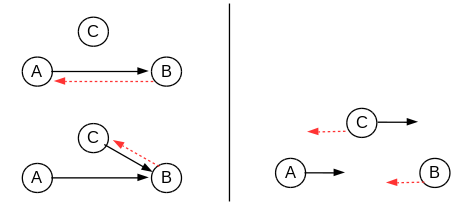
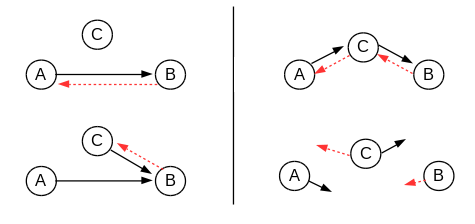
Document failures

diff --git a/report/report.md b/report/report.md
@@ -1,25 +1,37 @@
-#Streaming on Chord
+#Streaming on Chord DHT
 
-###INTRODUCTION
+##1. ABSTRACT
+
+coming
+
+##2. INTRODUCTION
 
 A significant number of distributed hash table (DHT) models have been designed with intent to be used in peer-to-peer (P2P) applications. These prototypes include CAN, Chord, Pastry, Kademlia and more. P2P is a general term for any networked environment where every node is responsible both as a client and a server. DHT provides a popular infrastructure for P2P as it locates data without a server. It also scales the network up, distributes content evenly and routes among the nodes fast. Among those prototypes, we chose the Chord DHT because it has a simple design and has been frequently studied and mentioned by researchers. 
 
-This project has addressed the motivated problem of maintaining the Chord ring overlay structure at node and communication failures. Regarding this concern, studies have discovered and improved possible incorrectness cases in traditional DHT designs including Chord. 
+This project has addressed the motivated problem of maintaining the Chord ring overlay structure along with node and communication faults. Regarding this concern, studies have discovered and improved possible incorrectness in Chord-like DHTs. 
 
-Our interest is in approaching this known problem at the application level.  After building a DHT P2P system, we have performed media streaming atop the system. This involves querying  serialized messages and data chunks. The results demonstrate two fold. First, it is a practical method to test the system. [ should elaborate – one sentence ] Second, it may open possibility to detect and oversee the overlay topology, as a number of researchers suggested.
+Our interest is in approaching this known problem at the application level.  After building a DHT P2P system, we have performed media streaming atop the system. This involves querying  serialized messages and data chunks. This practical approach has led us to detect and handle the incorrectness at a higher level than the DHT. **As a result, … (Pls give one sentence on 'our' streaming)**
 
 
-###DESIGN
+##3. DESIGN
 
 The following functionalities are based on settings and assumptions documented in the firstly presented Chord paper [Stoica], unless specified otherwise.
 
-**Scalability:** Each node participates the network via links to its adjacent nodes. This relation forms P2P overlays. When a node is added or removed, the adjacency state is coordinated locally. That is, a node only knows the keys to nodes that this node is responsible for. In this context, a removed node's keys should be passed to a neighbor node; a new node should own some keys. DHTs make these possible by reassigning local hash tables in the way distributing the responsibilities.
+###3.1 Scalability
 
-**Balanced Key Space:** Chord takes and extends the idea of consistent hashing that reduces number of keys to reassign when a distributed system is resized. The reduction is achieved when each participating node only “views” its “roughly equal share”. [Karger]  As traditional hashing, nodes are identified by keys randomized by a hash function.  The keys are then assigned to the node whose key “most immediately follows it” [Freedman]. While doing so, but in consistent hashing, the last node is glued to the first one. This gives illusion that the key space is now circular, moving in clockwise direction.  In this way a node on average holds O(K/n) keys, where K = number of keys, n = number of nodes. When this node leaves the system, the number of reassigned keys is only as large as the size of the local hash table. 
+Each node participates the network via links to its adjacent nodes. This relation forms P2P overlays. When a node is added or removed, the adjacency state is coordinated locally. That is, a node only knows the keys to nodes that this node is responsible for. In this context, a removed node's keys should be passed to a neighbor node; a new node should own some keys. DHTs make these possible by reassigning local hash tables in the way distributing the responsibilities.
 
-**Routing Performance:** Above is still true in Chord, with table-size log n.  The number of bits in a key is defined as the same value log(n). Using SHA1 hash function, a key is 160-bit long and a hash table becomes 160-keys long as well.  This means the DHT-based system now partitions the key space so that each node knows 160 possible nodes to reach. Each hash table can be considered as a routing table storing key-address pairs (i.e. fingers).  The Chord DHT has every i-th key of the first node that succeeds or equals (n + 2i).  The i-th entry then points the node in distance of (1 / 2n-i). When querying a target node, a node recursively hops to the node of the largest key that is smaller than that of the target. This ensures routing delay within O(log n). This greedy algorithm sets bound for required bandwidth which seems to work practically with large n. This is an enhancement from consistent hashing which possibly “requires computing all” the keys. [Karger] 
+###3.2 Balanced Key Space
 
-**Node subscription and exit/failure:** To add or remove a node, two tasks should get done: updating all the routing tables that involve the node; and, transferring key responsibility from/to its new successor.  These operations are known to cost time complexity O(log n)^2.  Assume node B is node A's successor. To add C,  the system updates the predecessor A's routing table according to C, and recursively do the same through the routing tables of all other nodes that have entries of B. C gains the responsibility for keys in the range of (a, c] which was previously part of B's key (a, b]. Now B is only responsible for keys in (c, b]. (Figure 1) Similarly, when C leaves or gets detected to be failed,  all keys stored in C's routing table become reassigned to it's successor B.  All  associated routing table removes C. The successor B now owns C's keys as well as its previous keys. (Figure 2)
+Chord takes and extends the idea of consistent hashing that reduces number of keys to reassign when a distributed system is resized. The reduction is achieved when each participating node only “views” its “roughly equal share”. [Karger]  As traditional hashing, nodes are identified by keys randomized by a hash function.  The keys are then assigned to the node whose key “most immediately follows it” [Freedman]. While doing so, but in consistent hashing, the last node is glued to the first one. This gives illusion that the key space is now circular, moving in clockwise direction.  In this way a node on average holds O(K/n) keys, where K = number of keys, n = number of nodes. When this node leaves the system, the number of reassigned keys is only as large as the size of the local hash table. 
+
+###3.3 Routing Performance
+
+Above is still true in Chord, with table-size log n.  The number of bits in a key is defined as the same value log(n). Using SHA1 hash function, a key is 160-bit long and a hash table becomes 160-keys long as well.  This means the DHT-based system now partitions the key space so that each node knows 160 possible nodes to reach. Each hash table can be considered as a routing table storing key-address pairs (i.e. fingers).  The Chord DHT has every i-th key of the first node that succeeds or equals (n + 2i).  The i-th entry then points the node in distance of (1 / 2n-i). When querying a target node, a node recursively hops to the node of the largest key that is smaller than that of the target. This ensures routing delay within O(log n). This greedy algorithm sets bound for required bandwidth which seems to work practically with large n. This is an enhancement from consistent hashing which possibly “requires computing all” the keys. [Karger] 
+
+###3.4 Node subscription and exit/failure
+
+To add or remove a node, two tasks should get done: updating all the routing tables that involve the node; and, transferring key responsibility from/to its new successor.  These operations are known to cost time complexity O(log n)^2.  Assume node B is node A's successor. To add C,  the system updates the predecessor A's routing table according to C, and recursively do the same through the routing tables of all other nodes that have entries of B. C gains the responsibility for keys in the range of (a, c] which was previously part of B's key (a, b]. Now B is only responsible for keys in (c, b]. (Figure 1) Similarly, when C leaves or gets detected to be failed,  all keys stored in C's routing table become reassigned to it's successor B.  All  associated routing table removes C. The successor B now owns C's keys as well as its previous keys. (Figure 2)
 
 <img border=0 src='figure1.png'>
 
@@ -27,22 +39,24 @@ The following functionalities are based on settings and assumptions documented i
 
 > Figure 2 (right).    Key transfer with removed node.
 
-It is important to keep track of nodes' state so that the Chord system keeps invariants true for data consistency. That is, “all members agree about which members store values for which keys.” [Zave] This topic is beyond the scope of this project. Rather, we narrow our focus down into how a node can reach its adjacent overlay peers correctly. A node's reachability is a necessary prerequisite to its data consistency. 
+It is important to keep track of nodes' state so that the Chord system keeps invariants true for data consistency. That is, “all members agree about which members store values for which keys”. [Zave] This topic is beyond the scope of this report. Rather, we narrow our focus down into how a node can reach its adjacent overlay peers correctly. A node's reachability is a necessary prerequisite to its data consistency. 
 
  
-###CHORD RING MAINTENANCE
-
+##4. CHORD RING MAINTENANCE
 
 Every participating node is a member of a ring. The node has links to a successor node (whose key is next highest) and a predecessor (whose key is closest past). The successor is also defined as the smallest key entry stored in each routing table. Chord ring topology is defined by the successor pointer. To maintain this topology, the system is required to have exactly one ring and all members in the ring in right order. [Zave]
 
-**Member changes:**  Before any addition or removal of nodes proceeds, the ring's member relation is redefined. When the previous example of adding a node is about to occur, C first asks the predecessor A for its successor key. The returning key is B that becomes C's  successor; C becomes B's predecessor (represented as dashed line in Figure 3).   Until A notices that B does not consider A as a  predecessor any more, B has two members that think itself as a successor. Figure 4 shows the case of C leaving. A has a missing successor; B has a missing predecessor.
+###4.1 Member changes
+
+Before any addition or removal of nodes proceeds, the ring's member relation is redefined. When the previous example of adding a node is about to occur, node C first asks the predecessor A for A's current successor key. The returning key is of node B, which  becomes C's  successor; and C becomes B's predecessor (represented as dashed line in Figure 3).   Until A notices that B now points to a different predecessor than itself, B has two members believing that they are the successor. 
 
 <img border=0 src='figure3.png'>
 
-> Figure 3 (left).   Adding node C.
+> Figure 3 (left).   Adding node C to the ring structure.
 
-> Figure 4 (right).   Removing node C.
+> Figure 4 (right).   Removing node C from the ring structure.
 
+As seen in Figure 5, the ring seems maintain with an appendage cause by C. However it does not circulate properly because A's idea of its successor B and B's idea of its predecessor C do not agree. To resolve this the Chord paper suggests a periodic heartbeat feature (i.e., stabilization) to detect an incorrect successor-relation. 
 
 <img border=0 src='figure5.png'>
 
@@ -51,37 +65,53 @@ Every participating node is a member of a ring. The node has links to a successo
 > Figure 6 (right). A global view of Figure 4.
 
 
-**Stabilization protocol:** The Chord paper suggests a periodic heartbeat feature to detect incorrect successor-relations as appeared in Figure 5 and 6. According to this, every member pings the node which have been thought to be the processor and ask for its predecessor's identitier. For example, node A asks node B for B's predecessor and B returns node C. Since the target node's predecessor is not the sender itself, A adopts B's predecessor C as new successor, knowing that C's ID is apparently greater than A's and smaller than B's.  After C sets A as the predecessor, it continues to update routing tables and key responsibilities as appropriate. As the paper does not provide any more details, in the project the member sends two arbitrary messages expecting one back, as described on the page 3 of the proposal.
+###4.2 Stabilization protocol
 
-An obvious weakness of this method, also mentioned in the Chord paper, is that it cannot handle concurrent joins. If more than two nodes C, D joined between two members A, B before the periodic heartbeat incorporates at least one node into the ring, B eventually sets its predecessor pointer to later added D. When A gets stabilized, it recognizes D as a successor and gives proper key responsibility to D. Although this does not violate Zave's conditions for a valid overlay structure (i.e., exactly one ring and ordered), C becomes non-reachable from other members. 
+Every member pings the node whose key is locally stored as its processor and ask for its predecessor. In case the returned predecessor key does not agree with itself, the node redirect its successor pointer to the returned predecessor. Then the new predecessor will set its predecessor pointer to this node and the ring is repaired. For example, node A in Figure 5 asks node B for what B's predecessor is and B returns node C.  Since B's predecessor is not A itself, A adopts B's predecessor C as new successor. For A, C is a rational choice for its successor because C clearly has larger key than A's – otherwise C could not have been A's former successor B's predecessor – and smaller than B's because B is C's successor.  Thus after C sets A as its predecessor successfully, it continues to update routing tables and key responsibilities as appropriate. Since the paper does not provide much more details, the member is set to send two arbitrary messages expecting one back, as described on the page 3 of the proposal.
+
+An obvious weakness of this method, also mentioned in the Chord paper, is that it cannot handle concurrent joins. If more than two nodes C, D join between two members A, B (Figure 7) before the periodic heartbeat incorporates at least one node into the ring, B eventually sets its predecessor pointer to the later added D. Once A has been stabilized, it recognizes D as its successor and transfers proper key responsibility to D. C becomes not reachable from other members. Although this does not violate P. Zave's conditions for a “valid” overlay structure (i.e., exactly one ring and ordered), it is incorrect in terms of key responsibility. After the stabilization B becomes responsible for keys (D, B]. Thus a key between (D, C) will belong to B. However C is a live node that deserves to own the key in the range. 
 
 <img border=0 src='figure7.png'>
 
-> Figure 7. Concurrent joins leaving C non-reachable.
+> Figure 7. Concurrent joins causing node C unreachable.
 
-**Successor-list:**  Note that above stabilization method cannot progress when there is 'hole in the network' as shown in Figure 6. Since the previous successor C has left the ring, A cannot get a  response. A solution from the Chord paper is that each member stores a replication of upcoming successors' keys as part of the routing table. In the example in Figure 8, current successor of node 32 is node 40. If node 40 and 52 have failed at the moment of stabilization, the successor list with replication factor 5 (the second table) can find the next live successor node 60. These nodes, whose keys are stored for the purpose of finding an alternate successor, are also called 'short links' – whereas 'long links' refers to the nodes whose keys are stored for routing efficiency. [Freedman]
+Also, this stabilization method does not help the system make progress when there is a 'hole in the network' after a node left (Figures 4 and 6). Since node A's successor is node C which does not exist  in the network, A gets no response to its ping. 
+
+###4.3 Successor list
+
+A solution to this missing node problem, according to the Chord paper, is that each member stores a replication of upcoming successors' keys as part of the routing table. In the example in Figure 8, the current successor of node 32 is node 40. If node 40 and 52 have failed at the moment of stabilization, the successor list with replication factor 5 (the second table) can find the next live successor node 60. These nodes, whose keys are stored for the purpose of finding an alternate successor, are called 'short links' – whereas 'long links' refers to the nodes whose keys are stored for routing efficiency. [Freedman]
 
 <img border=0 src='figure8.png'>
 
-> Figure 8. The Successor List.
+> Figure 8. Successor list preserved for a local successor search.
+
+###4.4 Correctness hazards
+
+The stabilization protocol and the successor list together resolve most of member changes in the ring. But success is not guaranteed, as studies have articulated a number of scenarios causing incorrectness around Chord ring structure. Here is an example, a situation combining two basic cases shown in Figures 3 and 4. [Glendenning] The difference is that now node B leaves or fails, as soon as node D sets its successor to node C and C agrees with it. Node A uses the stabilization functionality to learn that its successor has been missing.  A then chooses its new live successor C in its routing table, since A does not know about D. This results in C gaining keys in range (A, C] and D becoming unreachable. Such incidence of unreachable nodes occurs frequently especially when we take communication faults into account. [Freedman] (Figure 10)
+
+<img border=0 src='figure9.png'>
+
+> Figure 9. Causing incorrect network while using stabilization and the successor list.
+
+<img border=0 src='figure10.png'>
+
+> Figure 10. Causing incorrect network due to a communication fault. 
+
+A Chord ring overlay can easily increase the number of unreachable (but still live) nodes in the DHT system. Assuming equal amount of nodes have left and added, and all the rest of nodes are live, an initially 'ideal' ring will most likely result in a less effective shape as in Figure 11. [Zave]  With this assumption, we have attempted to implement an application layer on top of this DHT and run a series of on-going tasks such as media streaming.
+
+<img border=0 src='figure11.png'>
+
+> Figure 11. Ideal ring becoming an incorrect-but-still-valid ring.
 
 
-***
-
-I am working on it UPTO this point. (including the abstract)  -- mimi
-
-Your proofreading would be more than welcomed :)
-
-***
-
-###IMPLEMENTATION
+##IMPLEMENTATION
 
 * I think it should be about how we integrate media streaming code into Chord DHT and BRBR... which I can't write about. (mimi)
 
 * `This section should not be very long. We do not want to see your class diagrams, code snippets, etc. The point of this section is to tell us in brief notable aspects of the implementation. For example, if you have a front-end, then this is the place to say that it is written in 10K lines of JavaScript, uses WebGL for rendering robot movement, has 0 tests, and yet still seems to work. Describe libraries that you've built on, operating system dependencies, and other important details that are implementation-specific. But, please be selective.`
 
 
-###EVALUATION
+##EVALUATION
 
 * the results from the streaming? (mimi)
 
@@ -89,14 +119,14 @@ Your proofreading would be more than welcomed :)
 
 * `If you have graphs/tables with performance information, or other measurements that you've performed on your system, then add them here. Note that all empirical evaluation results must have a proper methodology to introduce the results. What was the goal of the evaluation: why did you measure what you measured? How many nodes were in the experiment, how were they connected, did you crash a node 1min into the experiment? Typically, the more information you provide to describe the experiments, the better. But, it requires careful judgment to report just the important details.`
 
-###LIMITATIONS
+##LIMITATIONS
 
 * `Every system design is predicated on reasoning about and introducing trade-offs. You can't have it all when you build complex systems (e.g., CAP theorem is a concise example of this). In this section you should explain the limitations of your system and where your system does not work (because you have tested it and it failed to work), or may not work (a hypothesis drawn from design, but that you did not test). Every design has trade-offs. Don't worry about this section being long. Focus on limitations that are fundamental, rather than incidental (e.g., doesn't work on windows because we depend on bash is an incidental limitation).`
 
-###DISCUSSION
+##DISCUSSION
 * `Take a step back. What worked and didn't work during the project? Tell us an interesting story about your experience in building the system. Talk about the issues and challenges that came up during the project.`
 
-###REFERENCES
+##REFERENCES
 
 [Stoica] I. Stoica, R. Morris, D. Karger, M. F. Kaashoek, and H. Balakrishnan. Chord: A Scalable Peer-to-peer Lookup Service for Internet Applications. In Proc. of SIGCOMM. ACM, 2001.
 
@@ -106,3 +136,4 @@ Your proofreading would be more than welcomed :)
 
 [Zave] P. Zave.  Using lightweight modeling to understand chord. ACM CCR, 2012.
 
+[Glendenning] L. Glendenning, I. Beschastnikh, A. Krishnamurthy, and T. Anderson. Scalable Consistency in Scatter. In Proc. of the 23rd ACM Symposium on Operating Systems Principles. ACM, 2011.
